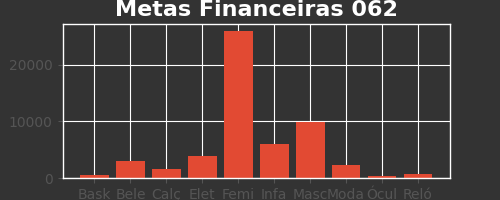
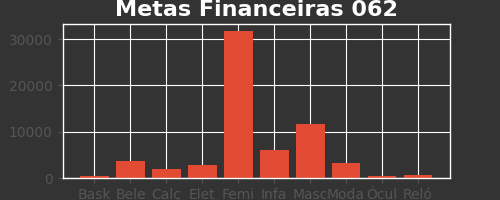
ontem

diff --git a/main.py b/main.py
@@ -19,7 +19,7 @@ class App():
         self.win = Tk()
         self.conn = connect("dados.db")
         self.c = self.conn.cursor()
-        self.caulcarGrafico()
+        #self.caulcarGrafico()
         self.bg = "#333"
         self.nome = 'Undefined'
         self.dia = int(st("%d"))
@@ -65,9 +65,6 @@ class App():
         self.userImg = pimg(file = r"img\\user.png")
         self.setImg = pimg(file = r"img\\set.png")
         self.cartImg = pimg(file = r"img\\cart.png")
-        # Graficos
-        self.g1 = pimg(file = r"img\\meta.png")
-        self.g2 = pimg(file = r"img\\real.png")
 
         # DIREITOS AUTORAIS ----------------------------------------------------------------------------------------
         self.ms = 'Deselvolvido por TecnoBreve Enterprise, Direitos autorais reservados a mesma © Londrina 2022'
@@ -175,7 +172,7 @@ class App():
 
         self.lblHxh = Label(
             self.hxhFrame,
-            text = 'Parcial \nHora X Hora',
+            text = 'Comercial',
             font = 'monospace 14 bold',
             bg = self.bg,
             fg = 'white'
@@ -194,7 +191,7 @@ class App():
             
         self.lblPA = Label(
             self.paFrame, 
-            text = 'Parcial \nParticipação', 
+            text = 'Participação', 
             font = 'monospace 14 bold', 
             bg = self.bg, 
             fg = 'white'
@@ -213,7 +210,7 @@ class App():
 
         self.lblVJ = Label(
             self.vjFrame, 
-            text = 'Parcial \nVendas com Juros', 
+            text = 'Vendas c/ Juros', 
             font = 'monospace 14 bold', 
             bg = self.bg, 
             fg = 'white'
@@ -238,28 +235,15 @@ class App():
             fg = 'white'
             )
 
-        # GRAPH FRAME
-        fgg = self.graphFrame
-        self.gp1 = Label(
-            fgg, 
-            image = self.g1, 
-            bg = self.bg
-            )
-
-        self.gp2 = Label(
-            fgg, 
-            image = self.g2, 
-            bg = self.bg
-            )
         
     def inst(self): # Instanciar 
         # Frame
         self.loginFrame.place(x= 10, y = 10)
         
         self.hxhFrame.place(x= 230, y= 10)
-        self.paFrame.place(x= 500, y = 10)
-        self.vjFrame.place(x = 770, y = 10)
-        self.esFrame.place(x=1040, y = 10)
+        self.esFrame.place(x= 500, y = 10)
+        self.vjFrame.place(x = 760, y = 10)
+        self.paFrame.place(x=1030, y = 10)
         self.txtFrame.place(x = 230, y = 101 )
         
         self.graphFrame.place(x = 790, y = 101)
@@ -285,10 +269,6 @@ class App():
         self.lblVJ.place(x = 170, y = 40, anchor = 'center')
         self.btnCart.place(x = 10, y = 10)
         self.lblEs.place(x = 170, y = 40, anchor = 'center')
-        
-        # FG
-        self.gp1.place(x = 0 , y = 10)
-        self.gp2.place(x = 0, y = 300)
         	
     # Functions
     def msg(self, tp, msg):
@@ -299,48 +279,6 @@ class App():
         elif tp == 3:
             messagebox.showwarning('Auto Acompanhamento', msg)
 
-    # CALLBACKS FUNCTIONS EXT ============================+
-    def hxh(self):
-        txt = self.txt.get('1.0', END)
-        arquivo = open('texto.txt', 'w')
-        arquivo.write(txt)
-        arquivo.close()
-        
-        self.msg(1, 'Abrindo parcial')
-        mainHxh()
-        self.atug()
-     
-    def pa(self):
-        txt = self.txt.get('1.0', END)
-        arquivo = open('clb.txt', 'w')
-        arquivo.write(txt)
-        arquivo.close()
-        
-        PA().cons()
-        self.msg(1, 'Parcial realizado com sucesso!')
-        os.system('parcial.xlsx')
-
-    def vj(self):
-        txt = self.txt.get('1.0', END)
-        arquivo = open('vj.txt', 'w')
-        arquivo.write(txt)
-        arquivo.close()
-        
-        VJ().code()
-        self.msg(1, 'Abrido parcial')
-        os.system('vj.xlsx')
-        
-    def estore(self):
-        self.msg(1, 'Abrindo estore')
-        os.system('estore.py')
-        
-    #+====================================================+
-    def atug(self):
-        self.caulcarGrafico()
-        self.g2 = PhotoImage(file = r"img\\real.png")
-        self.gp2 = Label(self.graphFrame, image = self.g2, bg = self.bg)
-        self.gp2.place(x = 0, y = 300)
-        
     def atualizar(self):
         self.hora = st("%H:%M:%S - %d/%m/%Y")
         self.lblHora["text"] = self.hora
@@ -390,12 +328,6 @@ class App():
         Button(win2, text = "Login", font = "arial 10", command= cons).pack(pady = 10)
         win2.bind('<Return>', cons)
         win2.mainloop()
-        
-    def settings(self):
-        if self.nome != 'Undefined':
-            pass
-        else:
-            self.msg(3, "Realize Login Primeiro!!")
     
     def addUser(self):
         c2 = connect('vj.db')
@@ -409,10 +341,7 @@ class App():
             nome = nome.split()
             nome = nome[0]
             self.msg(1, f'{nome} adicionado com sucesso')
-            winCad.destroy()
-            #except:
-                #self.msg(2, 'Erro!')
-            
+            winCad.destroy() 
             
         if self.nome != 'Undefined':
             winCad = Tk()
@@ -452,63 +381,41 @@ class App():
             self.msg(1, 'Lougout realizado com sucesso!!')
         else:
             self.msg(1, 'Realize Login !!!')
-            
-    def caulcarGrafico(self):
-        dia = int(st("%d"))
-        self.lhr = st('%H:%M')
-        pln = lw('metas.xlsx')
-        pln2 = lw('horaxhora.xlsx')
-        ws = pln.active
-        ws2 = pln2.active
-        vlr = []
-        
-        dcos = []
-        for i in range(1, 6000):
-            diaP = ws[f'A{i}'].value
-            loja = ws[f'B{i}'].value
-            dco = ws[f'C{i}'].value
-            valor = ws[f'D{i}'].value
-            if diaP != None:
-                if loja == 'L062':
-                    if diaP == dia:
-                        dcos.append(dco)
-                        vlr.append(valor)
-                        
-        dep = []
-        for d in dcos:
-            dco = d[:4]
-            dep.append(dco)
-           
-        plt.style.use('ggplot')
-        plt.figure(figsize = (5, 2), facecolor = '#333')
-        plt.title('Metas Financeiras 062', fontsize = 16, fontweight='bold', color = 'white')
-        meta = plt.subplot()
-        meta.bar(dep, vlr)
-        meta.set_facecolor('#333')
-        plt.savefig('img\\meta.png')
-        plt.close()
 
-        y_pos = []
-        deps = ['Beleza', 'Calça', 'Tecno', 'Fem', 'Inf', 'Masc', 'Moda C', 'Óculos', 'Basket', 'Relóg']
-            
-        for i in range(1,11):
-            y_pos.append(i)
-            
-        realizado = []
-        for i in range(7, 17):
-            valor = ws2[f'E{i}'].value
-            realizado.append(valor)
-            
-        plt.style.use('ggplot')
-        plt.figure(figsize = (5, 2), facecolor = '#333')
-        plt.title(f'Realizado {self.lhr}', fontsize = 16, fontweight='bold', color = 'white')
+    #+=======================CAL BACK=============================
+
+    def hxh(self):
+        txt = self.txt.get('1.0', END)
+        arquivo = open('texto.txt', 'w')
+        arquivo.write(txt)
+        arquivo.close()
         
-        rel = plt.subplot()
-        rel.barh(y_pos, realizado)
-        rel.set_yticks(y_pos, deps)
+        self.msg(1, 'Abrindo parcial')
+        mainHxh()
+     
+    def pa(self):
+        txt = self.txt.get('1.0', END)
+        arquivo = open('clb.txt', 'w')
+        arquivo.write(txt)
+        arquivo.close()
         
-        rel.set_facecolor('#333')
-        plt.savefig('img\\real.png')
-        plt.close()
+        PA().cons()
+        self.msg(1, 'Parcial realizado com sucesso!')
+        os.system('parcial.xlsx')
+
+    def vj(self):
+        txt = self.txt.get('1.0', END)
+        arquivo = open('vj.txt', 'w')
+        arquivo.write(txt)
+        arquivo.close()
         
+        VJ().code()
+        self.msg(1, 'Abrido parcial')
+        os.system('vj.xlsx')
+        
+    def estore(self):
+        self.msg(1, 'Abrindo estore')
+        os.system('estore.py')
+        
+      
 App()
